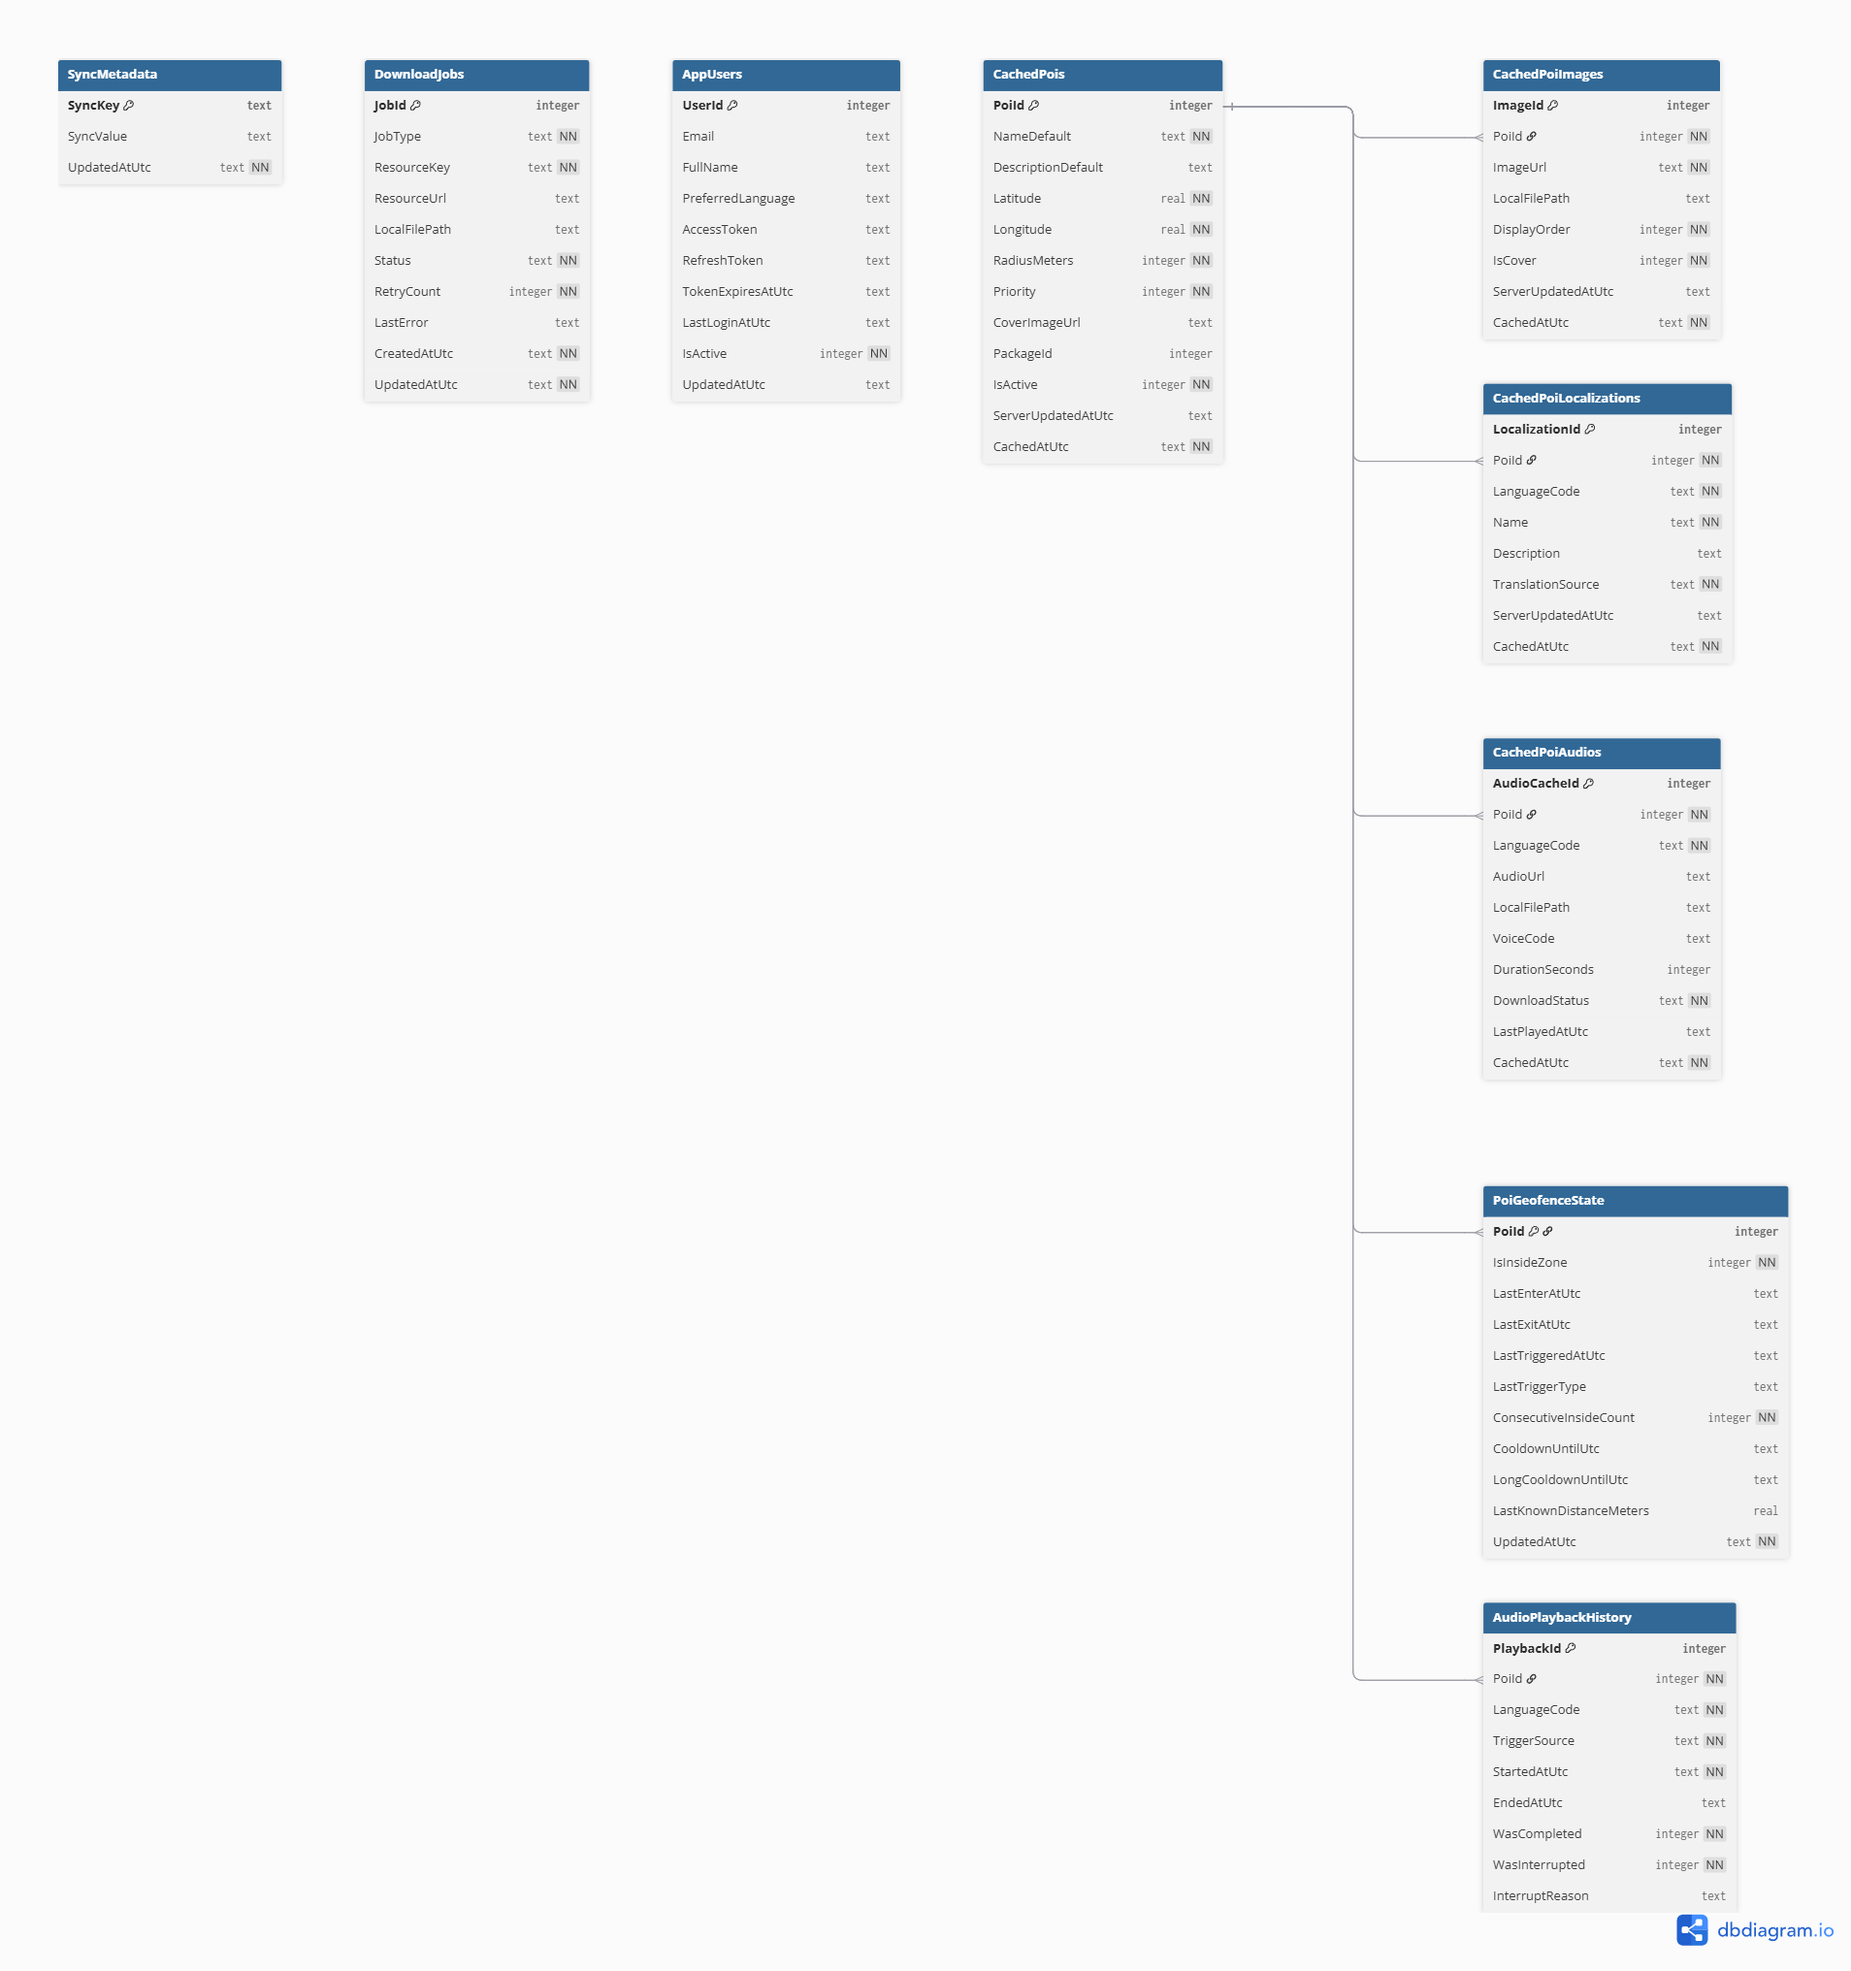
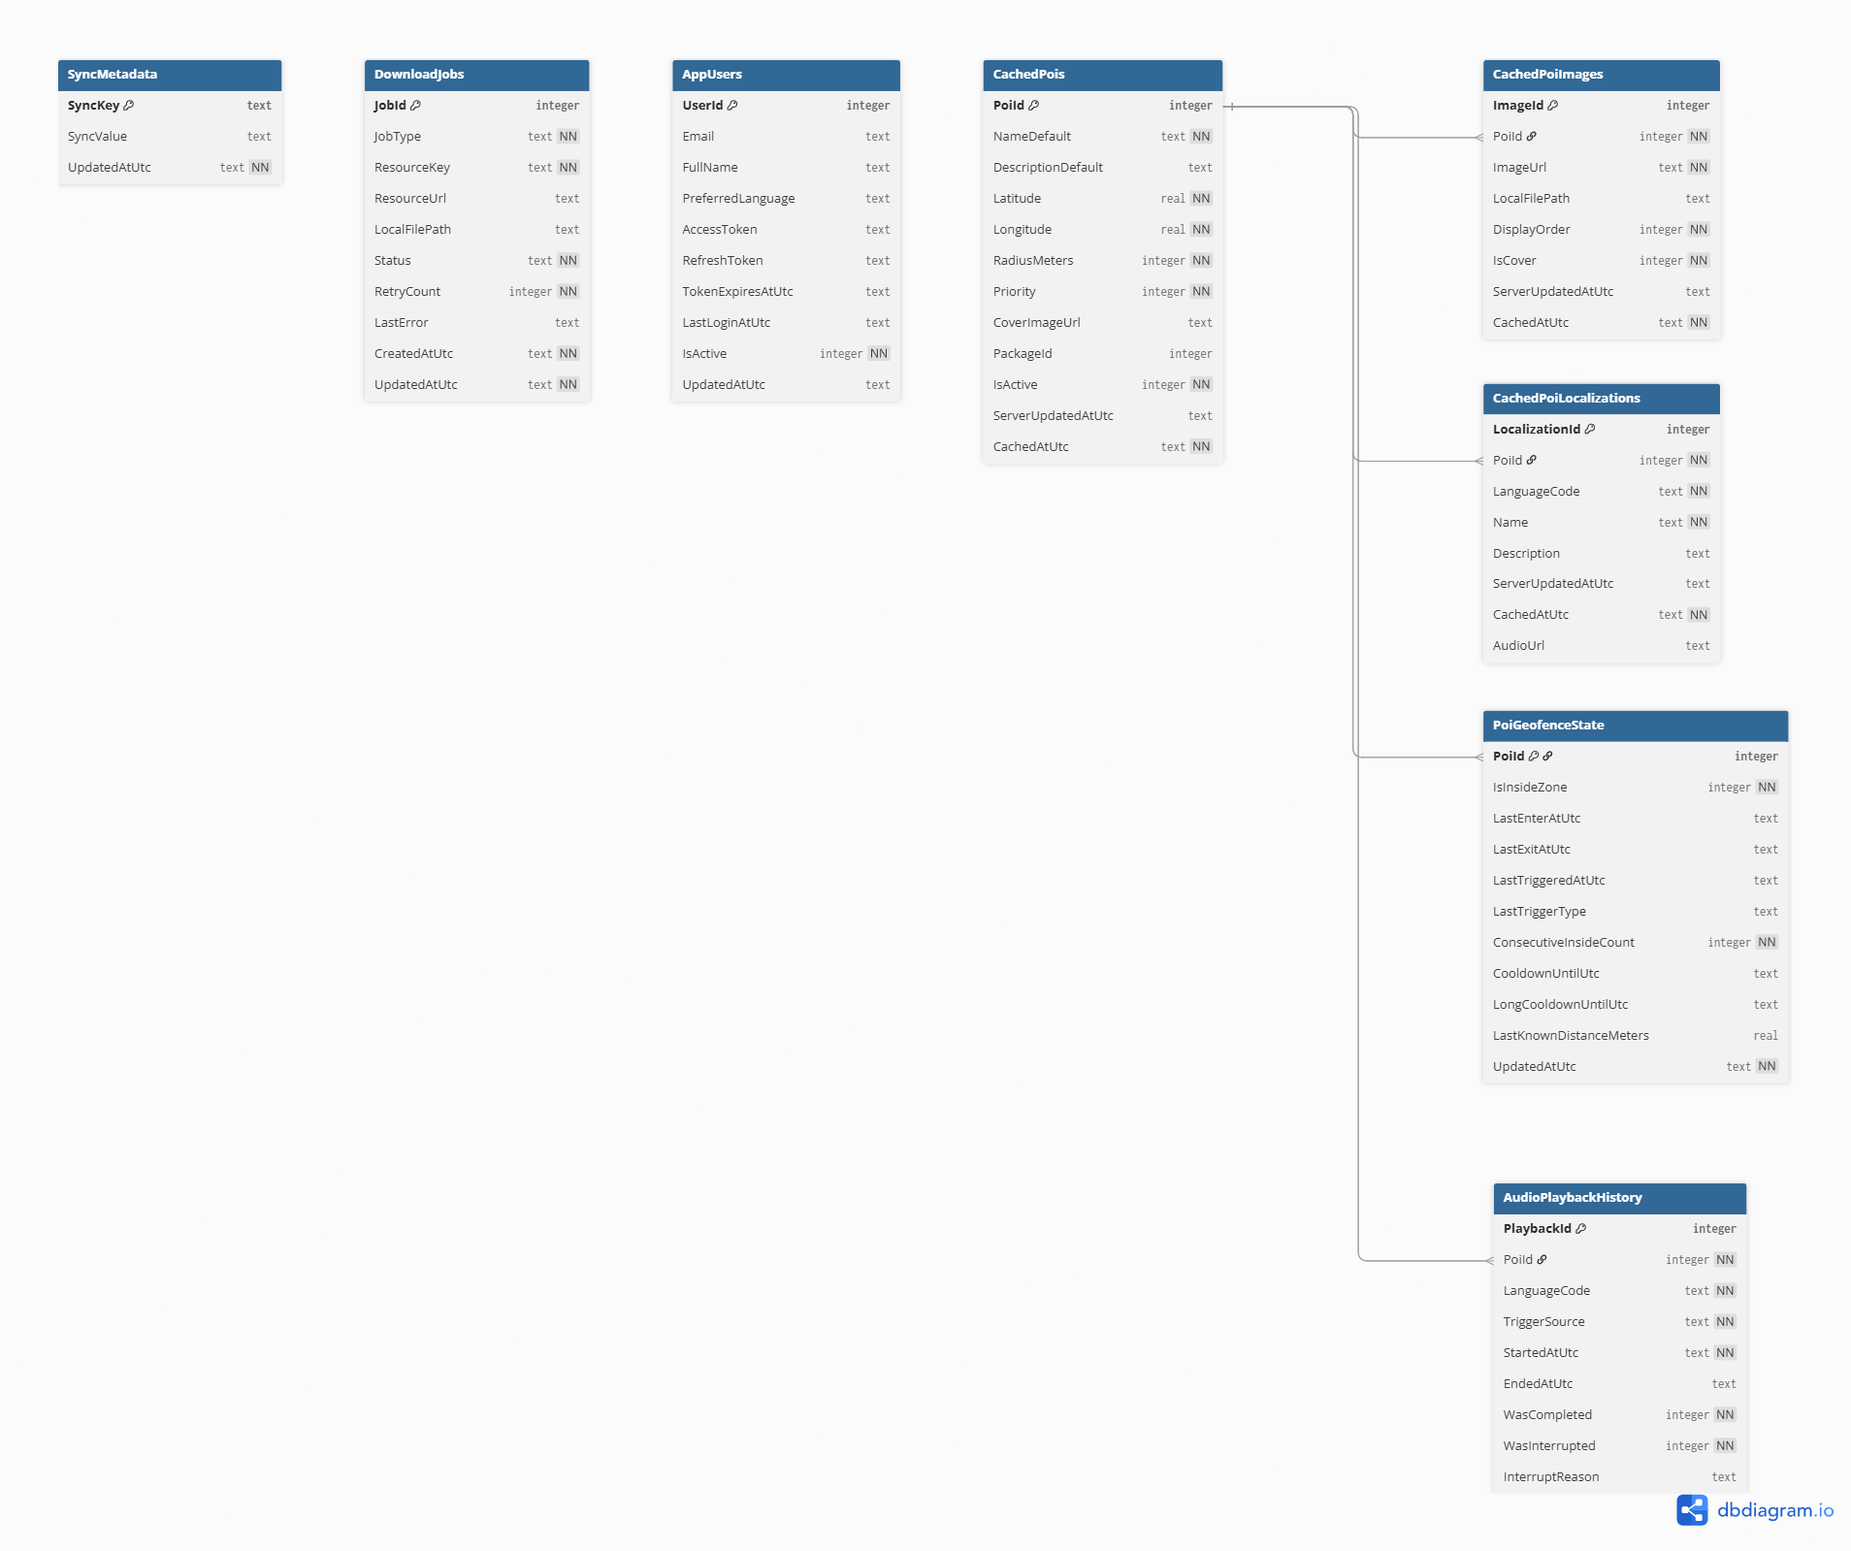
docs: udpate prd

diff --git a/README.md b/README.md
@@ -267,7 +267,7 @@ Cache nội dung đa ngôn ngữ.
 | TranslationSource | text |  | Nguồn dịch |
 | ServerUpdatedAtUtc | text |  | Cập nhật server |
 | CachedAtUtc | text |  | Thời điểm cache |
-
+| AudioPath | text | | Filepath đến Audio lưu tại local |
 #### CachedPoiAudios
 
 Cache audio theo ngôn ngữ.
